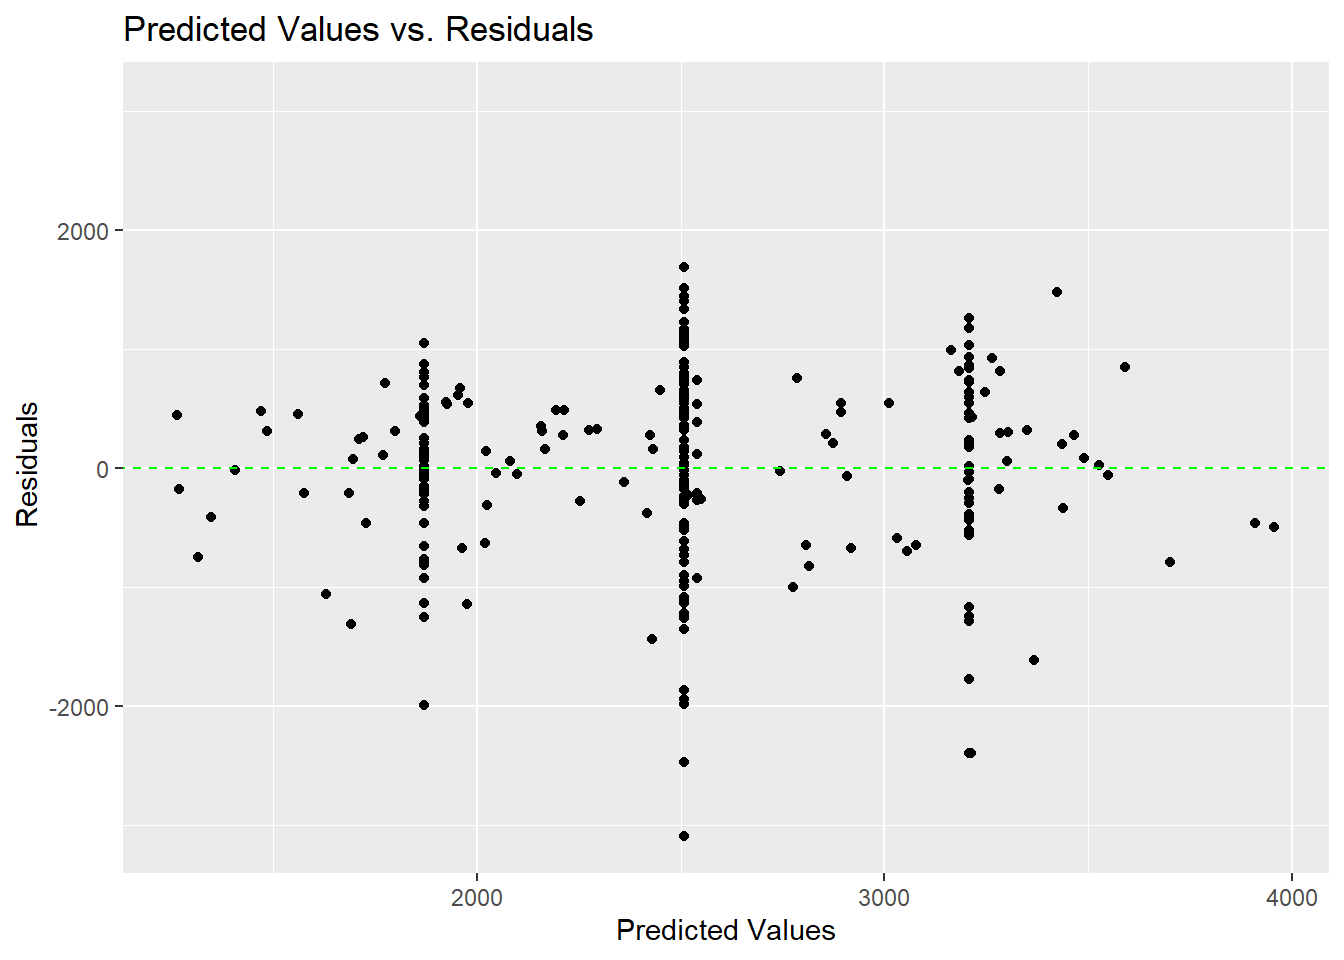
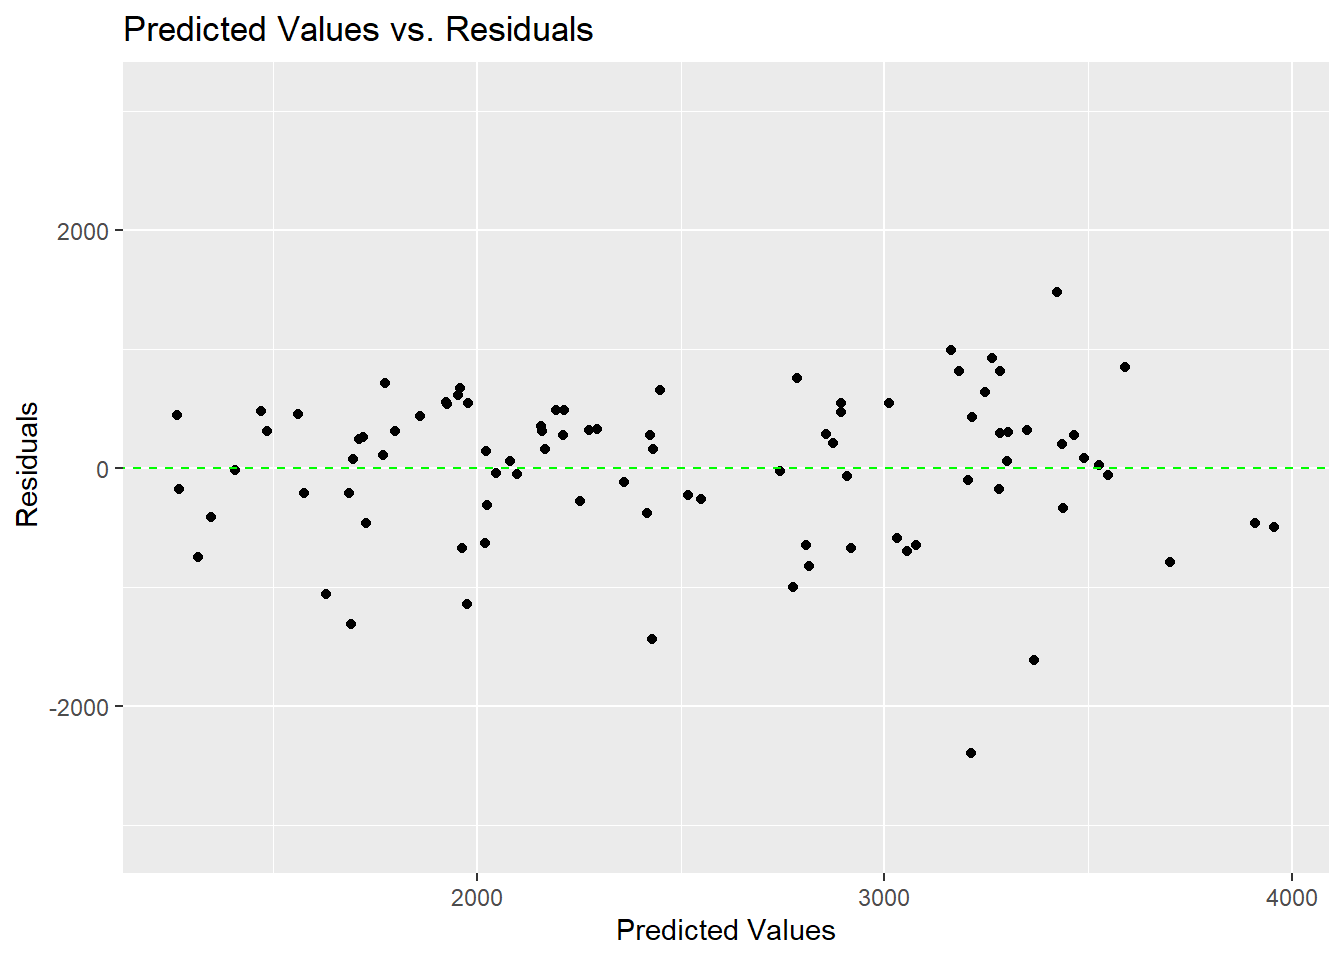
Part 2 update
residual plot fix

diff --git a/docs/fitting-exercise/fitting-exercise.html b/docs/fitting-exercise/fitting-exercise.html
@@ -896,7 +896,7 @@ returned.</code></pre>
 <span id="cb69-2"><a href="#cb69-2" aria-hidden="true" tabindex="-1"></a>graph_df<span class="sc">$</span>residual<span class="ot">&lt;-</span>graph_df<span class="sc">$</span>Predicted<span class="sc">-</span>graph_df<span class="sc">$</span>Observed_Values</span>
 <span id="cb69-3"><a href="#cb69-3" aria-hidden="true" tabindex="-1"></a></span>
 <span id="cb69-4"><a href="#cb69-4" aria-hidden="true" tabindex="-1"></a><span class="co">#plot the predicted versus residuals for model 2</span></span>
-<span id="cb69-5"><a href="#cb69-5" aria-hidden="true" tabindex="-1"></a><span class="fu">ggplot</span>(graph_df, <span class="fu">aes</span>(<span class="at">x =</span> Predicted, <span class="at">y =</span> residual)) <span class="sc">+</span></span>
+<span id="cb69-5"><a href="#cb69-5" aria-hidden="true" tabindex="-1"></a><span class="fu">ggplot</span>(graph_df[graph_df<span class="sc">$</span>label<span class="sc">==</span><span class="st">"Predictions from Model 2 (All Variables)"</span>,], <span class="fu">aes</span>(<span class="at">x =</span> Predicted, <span class="at">y =</span> residual)) <span class="sc">+</span></span>
 <span id="cb69-6"><a href="#cb69-6" aria-hidden="true" tabindex="-1"></a>  <span class="fu">geom_point</span>() <span class="sc">+</span>  </span>
 <span id="cb69-7"><a href="#cb69-7" aria-hidden="true" tabindex="-1"></a>  <span class="fu">geom_abline</span>(<span class="at">slope =</span> <span class="dv">0</span>, <span class="at">intercept =</span> <span class="dv">0</span>, <span class="at">linetype =</span> <span class="st">"dashed"</span>, <span class="at">color =</span> <span class="st">"green"</span>) <span class="sc">+</span>  </span>
 <span id="cb69-8"><a href="#cb69-8" aria-hidden="true" tabindex="-1"></a>  <span class="fu">labs</span>(<span class="at">x =</span> <span class="st">"Predicted Values"</span>, <span class="at">y =</span> <span class="st">" Residuals"</span>, <span class="at">title =</span> <span class="st">"Predicted Values vs. Residuals"</span>) <span class="sc">+</span></span>
